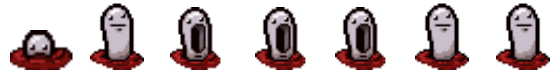
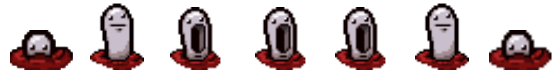
sounds and effects added

diff --git a/js/irongame.js b/js/irongame.js
@@ -17,7 +17,7 @@ const irongame = {
     gameLimits: {l: 90, r: 770, t: 50, b: 400},
     randomSize: 1,
     intervalID: undefined,
-    audio: undefined,
+    sound: undefined,
 
 
     // Init to call functions
@@ -33,9 +33,12 @@ const irongame = {
         this.createLifeBar() 
         this.drawAll()
         this.setEventHandlers()
+        this.audio()
         this.clearAll()
         this.imageLastWill = new Image()
         this.imageLastWill.src = "img/last-will.jpeg"
+        this.imageCongrats = new Image()
+        this.imageCongrats.src = "img/congrats.jpg"
     },
 
     //Context 
@@ -50,18 +53,17 @@ const irongame = {
     
     drawAll() {
         backgroundAudio.backgroundAudio.play();
-        backgroundAudio.backgroundAudio.volume = 0.4;
+        backgroundAudio.backgroundAudio.volume = 0.2;
         backgroundAudio.backgroundAudio.loop = true;
         this.intervalID = setInterval(() => {
         this.framesIndex++
         this.getRandomW()
-        this.framesIndex % 180 === 0 ? this.createPythonEnemy() : null
-        this.framesIndex % 140 === 0 ? this.createOctoEnemy() : null
-        this.framesIndex % 800 === 0 ? this.createBonus() : null
+        this.framesIndex % 60 === 0 ? this.createPythonEnemy() : null
+        this.framesIndex % 20 === 0 ? this.createOctoEnemy() : null
+        this.framesIndex % 500 === 0 ? this.createBonus() : null
         this.framesIndex % 50 === 0 && this.seconds--
         this.clearAll()
         this.drawBackgroud()
-        this.drawCountdown()
         this.drawPlayer()
         this.drawBonus()
         this.drawPythonEnemy()
@@ -72,8 +74,9 @@ const irongame = {
         this.checkBulletEnemyCollision()
         this.checkPlayerBonusCollision()
         this.bullets.forEach((bullet) => {bullet.draw(this.framesIndex)})
-        this.checkLife()
+        // this.checkLife()
         this.checkLife() ? this.gameOver() : null
+        this.drawCountdown()
     }, 20)
     },
 
@@ -91,7 +94,7 @@ const irongame = {
             key === 'ArrowDown' ? this.player.moveDown() : null
         })
         document.addEventListener("click", (event) => {
-
+            this.sound.play()            
             const angle = Math.atan2(
               event.clientY - this.gameSize.h / 2,
               event.clientX - this.gameSize.w / 2
@@ -164,9 +167,18 @@ const irongame = {
 
     drawCountdown() {
         this.countdown.draw(this.seconds)
-        if(this.seconds === 0) {
-            
+        if(this.seconds <= 0) {
+        
+        clearInterval(this.intervalID)
+        this.prueba()
         }
+    },
+
+    prueba() {
+        this.clearAll()
+        this.ctx.fillStyle = 'black'
+        this.ctx.fillRect(0, 0, this.gameSize.w, this.gameSize.h)
+        this.ctx.drawImage(this.imageCongrats, 300, 0, 500, 520)
     },
 
     createLifeBar() {
@@ -177,21 +189,24 @@ const irongame = {
         this.lifeBar.draw(this.player.playerHealth);
     },
     
+    audio(){
+        this.sound = new Audio('./audios/shoot.mp3')
+    },
 
     //Get random input
     
     getRandomY() {
         const random = Math.floor(Math.random() * (this.gameLimits.b - 80 - this.gameLimits.t) + this.gameLimits.t)
-        if (this.player.playerPos.y + this.player.playerSize.h + 50 > random &&
-            this.player.playerPos.y - 50 < random) {
+        if (this.player.playerPos.y + this.player.playerSize.h + 80 > random &&
+            this.player.playerPos.y - 80 < random) {
             return 375
         } else return random
     },
 
     getRandomX() {
         const random = Math.floor(Math.random() * (this.gameLimits.r - 80 - this.gameLimits.l) + this.gameLimits.l)
-        if (this.player.playerPos.x + this.player.playerSize.w + 50 > random &&
-            this.player.playerPos.x - 50 < random) {
+        if (this.player.playerPos.x + this.player.playerSize.w + 80 > random &&
+            this.player.playerPos.x - 80 < random) {
             return 600
         } else return random
     },
@@ -279,7 +294,7 @@ const irongame = {
         backgroundAudio.backgroundAudio.volume = false
         this.ctx.fillStyle = 'black'
         this.ctx.fillRect(0, 0, this.gameSize.w, this.gameSize.h)
-        this.ctx.drawImage(this.imageLastWill, this.gameSize.w/2-this.imageLastWill.width/2, this.gameSize.h/2-this.imageLastWill.height/2)
+        this.ctx.drawImage(this.imageLastWill, 100, 0, 550, 550)
         clearInterval(this.intervalID)
         
     },

diff --git a/js/pythonEnemy.js b/js/pythonEnemy.js
@@ -5,7 +5,7 @@ class PythonEnemy {
         this.pythonEnemySize = {w: pythonEnemyWidth, h: pythonEnemyHeight}
         this.gameLimits =  gameLimits
         this.playerPos = playerPos
-        this.speed = 2
+        this.speed = 1
         this.imageInstance = undefined
         this.frames = undefined
         
@@ -14,9 +14,9 @@ class PythonEnemy {
 
     init() {
         this.imageInstance = new Image()
-        this.imageInstance.src = 'img/pythonEnemy.png'
+        this.imageInstance.src = 'img/octoEnemy.png'
         //imagen sprite
-        this.imageInstance.frames = 5
+        this.imageInstance.frames = 7
         this.imageInstance.framesIndex = 0
     }
 

diff --git a/js/octoEnemy.js b/js/octoEnemy.js
@@ -4,7 +4,7 @@ class OctoEnemy {
         this.octoEnemyPos = {x: octoEnemyX, y: octoEnemyY}
         this.octoEnemySize = {w: octoEnemyWidth, h: octoEnemyHeight}
         this.gameLimits =  gameLimits
-        this.speed = 3
+        this.speed = 2.5
         this.imageInstance = undefined
         
         this.init()
@@ -12,8 +12,8 @@ class OctoEnemy {
 
     init() {
         this.imageInstance = new Image()
-        this.imageInstance.src = 'img/octoEnemy.png'
-        this.imageInstance.frames = 7
+        this.imageInstance.src = 'img/pythonEnemy.png'
+        this.imageInstance.frames = 5
         this.imageInstance.framesIndex = 0
     }
 
